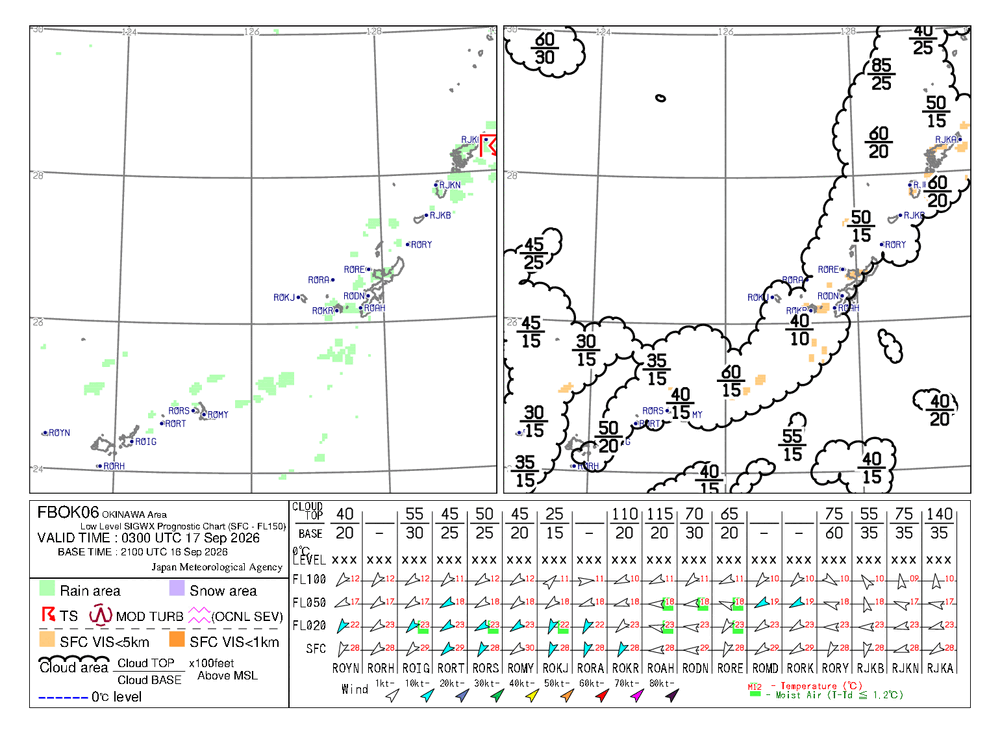
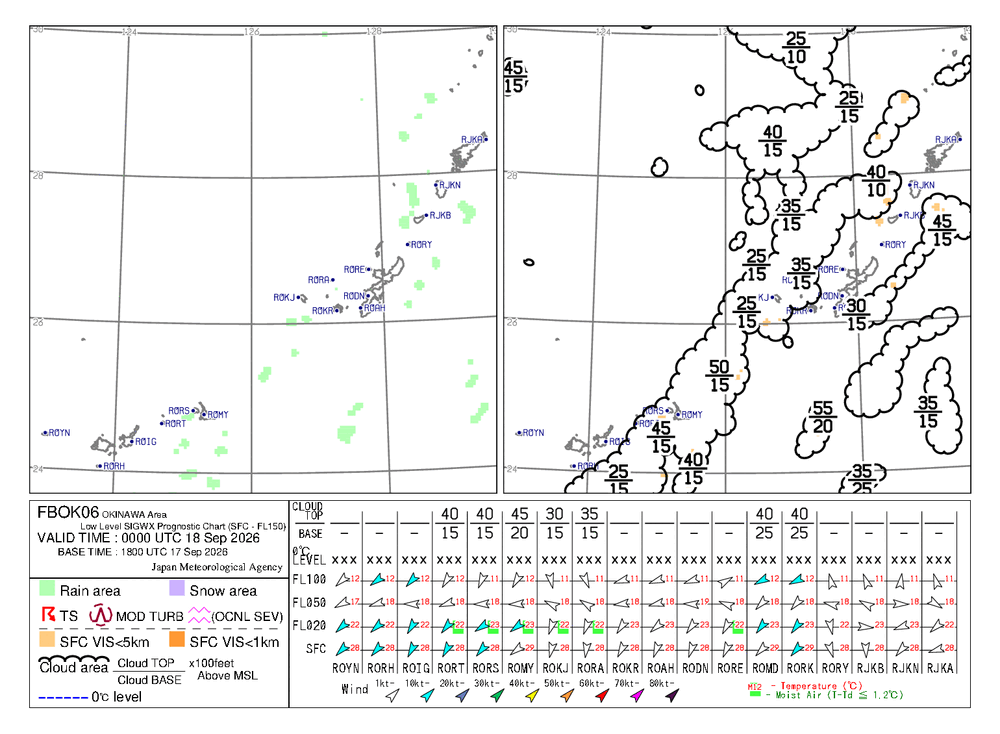
Update VMC map

diff --git a/index.html b/index.html
@@ -3,7 +3,7 @@
 <head>
 <meta charset="utf-8">
 <meta name="viewport" content="width=device-width, initial-scale=1">
-<title>VFR VMC 維持可否マップ (対象時刻: 2026-09-16T21:00 UTC)</title>
+<title>VFR VMC 維持可否マップ (対象時刻: 2026-09-17T21:00 UTC)</title>
 <style>
   :root {
     --bg: #eef1f5; --surface: #ffffff; --text: #1b2530; --text-muted: #5b6b7d;
@@ -109,8 +109,8 @@
     <h1>VFR VMC 維持可否マップ</h1>
     <p class="subtitle">日本全国、地形と雲底の隙間からVMC(視認気象状態)を維持できるかを判定した参考マップです。v1簡易判定につき、実運航の判断には正式な気象情報を使用してください。</p>
     <div class="chips">
-      <span class="chip">気象予報 対象時刻 <b>2026-09-16T21:00 UTC</b></span>
-      <span class="chip">下層悪天予想図 有効時刻 <b>0000 UTC 17 Sep 2026</b></span>
+      <span class="chip">気象予報 対象時刻 <b>2026-09-17T21:00 UTC</b></span>
+      <span class="chip">下層悪天予想図 有効時刻 <b>2100 UTC 17 Sep 2026</b></span>
     </div>
     <div class="refresh-row">
       <button type="button" id="refreshBtn" class="refresh-btn">今すぐ最新データを取得</button>
@@ -124,7 +124,7 @@
     <span class="item"><span class="swatch" style="background:#c62828"></span>VMC維持不可</span>
   </div>
 
-  <div class="layer-tabs"><button type="button" class="layer-tab active" data-layer="0">VMCマップ</button><button type="button" class="layer-tab" data-layer="1">標高マップ</button><button type="button" class="layer-tab" data-layer="2">色別標高図(地理院地図)</button><button type="button" class="layer-tab" data-layer="3">下層悪天 FT03(標高図)</button><button type="button" class="layer-tab" data-layer="4">下層悪天 FT06(標高図)</button></div>
+  <div class="layer-tabs"><button type="button" class="layer-tab active" data-layer="0">VMCマップ</button><button type="button" class="layer-tab" data-layer="1">標高マップ</button><button type="button" class="layer-tab" data-layer="2">色別標高図(地理院地図)</button><button type="button" class="layer-tab" data-layer="3">下層悪天 FT03(標高図)</button><button type="button" class="layer-tab" data-layer="4">下層悪天 FT06(標高図)</button><button type="button" class="layer-tab" data-layer="5">下層悪天 FT09(標高図)</button></div>
   <p id="layerCaption" class="hint"></p>
 
   <div class="map-card">
@@ -152,7 +152,7 @@
   var livecamPoints = [[24.3, 123.8, "https://weathernews.jp/onebox/livecam/okinawa/"], [26.1, 127.7, "https://weathernews.jp/onebox/livecam/okinawa/"], [30.6, 131.0, "https://weathernews.jp/onebox/livecam/kyushu/kagoshima/"], [31.2, 131.0, "https://weathernews.jp/onebox/livecam/kyushu/kagoshima/"], [31.5, 130.4, "https://weathernews.jp/onebox/livecam/kyushu/kagoshima/"], [31.5, 130.7, "https://weathernews.jp/onebox/livecam/kyushu/kagoshima/"], [31.5, 131.0, "https://weathernews.jp/onebox/livecam/kyushu/kagoshima/"], [31.5, 131.3, "https://weathernews.jp/onebox/livecam/kyushu/miyazaki/"], [31.8, 130.4, "https://weathernews.jp/onebox/livecam/kyushu/kagoshima/"], [31.8, 130.7, "https://weathernews.jp/onebox/livecam/kyushu/kagoshima/"], [31.8, 131.0, "https://weathernews.jp/onebox/livecam/kyushu/miyazaki/"], [31.8, 131.3, "https://weathernews.jp/onebox/livecam/kyushu/miyazaki/"], [32.1, 130.4, "https://weathernews.jp/onebox/livecam/kyushu/kagoshima/"], [32.1, 130.7, "https://weathernews.jp/onebox/livecam/kyushu/kumamoto/"], [32.1, 131.0, "https://weathernews.jp/onebox/livecam/kyushu/miyazaki/"], [32.1, 131.3, "https://weathernews.jp/onebox/livecam/kyushu/miyazaki/"], [32.4, 130.1, "https://weathernews.jp/onebox/livecam/kyushu/kumamoto/"], [32.4, 130.7, "https://weathernews.jp/onebox/livecam/kyushu/kumamoto/"], [32.4, 131.0, "https://weathernews.jp/onebox/livecam/kyushu/kumamoto/"], [32.4, 131.3, "https://weathernews.jp/onebox/livecam/kyushu/miyazaki/"], [32.4, 131.6, "https://weathernews.jp/onebox/livecam/kyushu/miyazaki/"], [32.7, 130.7, "https://weathernews.jp/onebox/livecam/kyushu/kumamoto/"], [32.7, 131.0, "https://weathernews.jp/onebox/livecam/kyushu/kumamoto/"], [32.7, 131.3, "https://weathernews.jp/onebox/livecam/kyushu/miyazaki/"], [32.7, 131.6, "https://weathernews.jp/onebox/livecam/kyushu/miyazaki/"], [33.0, 129.8, "https://weathernews.jp/onebox/livecam/kyushu/nagasaki/"], [33.0, 130.1, "https://weathernews.jp/onebox/livecam/kyushu/saga/"], [33.0, 130.7, "https://weathernews.jp/onebox/livecam/kyushu/kumamoto/"], [33.0, 131.0, "https://weathernews.jp/onebox/livecam/kyushu/kumamoto/"], [33.0, 131.3, "https://weathernews.jp/onebox/livecam/kyushu/oita/"], [33.0, 131.6, "https://weathernews.jp/onebox/livecam/kyushu/oita/"], [33.0, 131.9, "https://weathernews.jp/onebox/livecam/kyushu/oita/"], [33.0, 132.8, "https://weathernews.jp/onebox/livecam/shikoku/kouchi/"], [33.3, 129.5, "https://weathernews.jp/onebox/livecam/kyushu/nagasaki/"], [33.3, 129.8, "https://weathernews.jp/onebox/livecam/kyushu/saga/"], [33.3, 130.1, "https://weathernews.jp/onebox/livecam/kyushu/saga/"], [33.3, 130.4, "https://weathernews.jp/onebox/livecam/kyushu/saga/"], [33.3, 130.7, "https://weathernews.jp/onebox/livecam/kyushu/fukuoka/"], [33.3, 131.0, "https://weathernews.jp/onebox/livecam/kyushu/oita/"], [33.3, 131.3, "https://weathernews.jp/onebox/livecam/kyushu/oita/"], [33.3, 132.5, "https://weathernews.jp/onebox/livecam/shikoku/ehime/"], [33.3, 132.8, "https://weathernews.jp/onebox/livecam/shikoku/ehime/"], [33.3, 133.1, "https://weathernews.jp/onebox/livecam/shikoku/kouchi/"], [33.6, 130.4, "https://weathernews.jp/onebox/livecam/kyushu/fukuoka/"], [33.6, 130.7, "https://weathernews.jp/onebox/livecam/kyushu/fukuoka/"], [33.6, 131.0, "https://weathernews.jp/onebox/livecam/kyushu/fukuoka/"], [33.6, 131.6, "https://weathernews.jp/onebox/livecam/kyushu/oita/"], [33.6, 132.5, "https://weathernews.jp/onebox/livecam/shikoku/ehime/"], [33.6, 132.8, "https://weathernews.jp/onebox/livecam/shikoku/ehime/"], [33.6, 133.1, "https://weathernews.jp/onebox/livecam/shikoku/kouchi/"], [33.6, 133.4, "https://weathernews.jp/onebox/livecam/shikoku/kouchi/"], [33.6, 133.7, "https://weathernews.jp/onebox/livecam/shikoku/kouchi/"], [33.6, 134.0, "https://weathernews.jp/onebox/livecam/shikoku/kouchi/"], [33.6, 134.3, "https://weathernews.jp/onebox/livecam/shikoku/tokushima/"], [33.6, 135.5, "https://weathernews.jp/onebox/livecam/kinki/wakayama/"], [33.6, 135.8, "https://weathernews.jp/onebox/livecam/kinki/wakayama/"], [33.9, 130.7, "https://weathernews.jp/onebox/livecam/kyushu/fukuoka/"], [33.9, 132.2, "https://weathernews.jp/onebox/livecam/chugoku/yamaguchi/"], [33.9, 132.8, "https://weathernews.jp/onebox/livecam/shikoku/ehime/"], [33.9, 133.1, "https://weathernews.jp/onebox/livecam/shikoku/ehime/"], [33.9, 133.4, "https://weathernews.jp/onebox/livecam/shikoku/ehime/"], [33.9, 133.7, "https://weathernews.jp/onebox/livecam/shikoku/tokushima/"], [33.9, 134.0, "https://weathernews.jp/onebox/livecam/shikoku/tokushima/"], [33.9, 134.3, "https://weathernews.jp/onebox/livecam/shikoku/tokushima/"], [33.9, 134.6, "https://weathernews.jp/onebox/livecam/shikoku/tokushima/"], [33.9, 135.2, "https://weathernews.jp/onebox/livecam/kinki/wakayama/"], [33.9, 135.5, "https://weathernews.jp/onebox/livecam/kinki/wakayama/"], [33.9, 135.8, "https://weathernews.jp/onebox/livecam/kinki/nara/"], [33.9, 136.1, "https://weathernews.jp/onebox/livecam/kinki/mie/"], [34.2, 129.2, "https://weathernews.jp/onebox/livecam/kyushu/nagasaki/"], [34.2, 131.0, "https://weathernews.jp/onebox/livecam/chugoku/yamaguchi/"], [34.2, 131.3, "https://weathernews.jp/onebox/livecam/chugoku/yamaguchi/"], [34.2, 131.6, "https://weathernews.jp/onebox/livecam/chugoku/yamaguchi/"], [34.2, 131.9, "https://weathernews.jp/onebox/livecam/chugoku/yamaguchi/"], [34.2, 132.2, "https://weathernews.jp/onebox/livecam/chugoku/yamaguchi/"], [34.2, 133.7, "https://weathernews.jp/onebox/livecam/shikoku/kagawa/"], [34.2, 134.0, "https://weathernews.jp/onebox/livecam/shikoku/kagawa/"], [34.2, 134.3, "https://weathernews.jp/onebox/livecam/shikoku/kagawa/"], [34.2, 134.6, "https://weathernews.jp/onebox/livecam/shikoku/tokushima/"], [34.2, 135.2, "https://weathernews.jp/onebox/livecam/kinki/wakayama/"], [34.2, 135.5, "https://weathernews.jp/onebox/livecam/kinki/wakayama/"], [34.2, 135.8, "https://weathernews.jp/onebox/livecam/kinki/nara/"], [34.2, 136.1, "https://weathernews.jp/onebox/livecam/kinki/nara/"], [34.5, 131.6, "https://weathernews.jp/onebox/livecam/chugoku/yamaguchi/"], [34.5, 131.9, "https://weathernews.jp/onebox/livecam/chugoku/shimane/"], [34.5, 132.2, "https://weathernews.jp/onebox/livecam/chugoku/hiroshima/"], [34.5, 132.5, "https://weathernews.jp/onebox/livecam/chugoku/hiroshima/"], [34.5, 132.8, "https://weathernews.jp/onebox/livecam/chugoku/hiroshima/"], [34.5, 133.1, "https://weathernews.jp/onebox/livecam/chugoku/hiroshima/"], [34.5, 133.4, "https://weathernews.jp/onebox/livecam/chugoku/hiroshima/"], [34.5, 134.3, "https://weathernews.jp/onebox/livecam/shikoku/kagawa/"], [34.5, 134.9, "https://weathernews.jp/onebox/livecam/kinki/hyogo/"], [34.5, 135.5, "https://weathernews.jp/onebox/livecam/kinki/osaka/"], [34.5, 135.8, "https://weathernews.jp/onebox/livecam/kinki/nara/"], [34.5, 136.1, "https://weathernews.jp/onebox/livecam/kinki/nara/"], [34.5, 136.4, "https://weathernews.jp/onebox/livecam/kinki/mie/"], [34.5, 136.7, "https://weathernews.jp/onebox/livecam/kinki/mie/"], [34.8, 132.2, "https://weathernews.jp/onebox/livecam/chugoku/shimane/"], [34.8, 132.5, "https://weathernews.jp/onebox/livecam/chugoku/shimane/"], [34.8, 132.8, "https://weathernews.jp/onebox/livecam/chugoku/hiroshima/"], [34.8, 133.1, "https://weathernews.jp/onebox/livecam/chugoku/hiroshima/"], [34.8, 133.4, "https://weathernews.jp/onebox/livecam/chugoku/okayama/"], [34.8, 133.7, "https://weathernews.jp/onebox/livecam/chugoku/okayama/"], [34.8, 134.0, "https://weathernews.jp/onebox/livecam/chugoku/okayama/"], [34.8, 134.3, "https://weathernews.jp/onebox/livecam/kinki/hyogo/"], [34.8, 134.6, "https://weathernews.jp/onebox/livecam/kinki/hyogo/"], [34.8, 134.9, "https://weathernews.jp/onebox/livecam/kinki/hyogo/"], [34.8, 135.2, "https://weathernews.jp/onebox/livecam/kinki/hyogo/"], [34.8, 135.5, "https://weathernews.jp/onebox/livecam/kinki/osaka/"], [34.8, 135.8, "https://weathernews.jp/onebox/livecam/kinki/kyoto/"], [34.8, 136.1, "https://weathernews.jp/onebox/livecam/kinki/mie/"], [34.8, 136.4, "https://weathernews.jp/onebox/livecam/kinki/mie/"], [34.8, 137.3, "https://weathernews.jp/onebox/livecam/chubu/aichi/"], [34.8, 137.6, "https://weathernews.jp/onebox/livecam/chubu/shizuoka/"], [34.8, 137.9, "https://weathernews.jp/onebox/livecam/chubu/shizuoka/"], [34.8, 138.2, "https://weathernews.jp/onebox/livecam/chubu/shizuoka/"], [34.8, 138.8, "https://weathernews.jp/onebox/livecam/chubu/shizuoka/"], [35.1, 132.5, "https://weathernews.jp/onebox/livecam/chugoku/shimane/"], [35.1, 132.8, "https://weathernews.jp/onebox/livecam/chugoku/shimane/"], [35.1, 133.1, "https://weathernews.jp/onebox/livecam/chugoku/shimane/"], [35.1, 133.4, "https://weathernews.jp/onebox/livecam/chugoku/okayama/"], [35.1, 133.7, "https://weathernews.jp/onebox/livecam/chugoku/okayama/"], [35.1, 134.0, "https://weathernews.jp/onebox/livecam/chugoku/okayama/"], [35.1, 134.3, "https://weathernews.jp/onebox/livecam/chugoku/okayama/"], [35.1, 134.6, "https://weathernews.jp/onebox/livecam/kinki/hyogo/"], [35.1, 134.9, "https://weathernews.jp/onebox/livecam/kinki/hyogo/"], [35.1, 135.2, "https://weathernews.jp/onebox/livecam/kinki/hyogo/"], [35.1, 135.5, "https://weathernews.jp/onebox/livecam/kinki/kyoto/"], [35.1, 135.8, "https://weathernews.jp/onebox/livecam/kinki/kyoto/"], [35.1, 136.1, "https://weathernews.jp/onebox/livecam/kinki/shiga/"], [35.1, 136.4, "https://weathernews.jp/onebox/livecam/kinki/shiga/"], [35.1, 136.7, "https://weathernews.jp/onebox/livecam/kinki/mie/"], [35.1, 137.0, "https://weathernews.jp/onebox/livecam/chubu/aichi/"], [35.1, 137.3, "https://weathernews.jp/onebox/livecam/chubu/aichi/"], [35.1, 137.6, "https://weathernews.jp/onebox/livecam/chubu/aichi/"], [35.1, 137.9, "https://weathernews.jp/onebox/livecam/chubu/shizuoka/"], [35.1, 138.2, "https://weathernews.jp/onebox/livecam/chubu/shizuoka/"], [35.1, 138.5, "https://weathernews.jp/onebox/livecam/chubu/shizuoka/"], [35.1, 140.0, "https://weathernews.jp/onebox/livecam/kanto/chiba/"], [35.4, 132.8, "https://weathernews.jp/onebox/livecam/chugoku/shimane/"], [35.4, 133.1, "https://weathernews.jp/onebox/livecam/chugoku/shimane/"], [35.4, 133.4, "https://weathernews.jp/onebox/livecam/chugoku/tottori/"], [35.4, 133.7, "https://weathernews.jp/onebox/livecam/chugoku/tottori/"], [35.4, 134.0, "https://weathernews.jp/onebox/livecam/chugoku/tottori/"], [35.4, 134.3, "https://weathernews.jp/onebox/livecam/chugoku/tottori/"], [35.4, 134.6, "https://weathernews.jp/onebox/livecam/kinki/hyogo/"], [35.4, 134.9, "https://weathernews.jp/onebox/livecam/kinki/hyogo/"], [35.4, 135.2, "https://weathernews.jp/onebox/livecam/kinki/kyoto/"], [35.4, 135.5, "https://weathernews.jp/onebox/livecam/chubu/fukui/"], [35.4, 135.8, "https://weathernews.jp/onebox/livecam/chubu/fukui/"], [35.4, 136.1, "https://weathernews.jp/onebox/livecam/kinki/shiga/"], [35.4, 136.4, "https://weathernews.jp/onebox/livecam/kinki/shiga/"], [35.4, 136.7, "https://weathernews.jp/onebox/livecam/chubu/gifu/"], [35.4, 137.0, "https://weathernews.jp/onebox/livecam/chubu/gifu/"], [35.4, 137.3, "https://weathernews.jp/onebox/livecam/chubu/gifu/"], [35.4, 137.6, "https://weathernews.jp/onebox/livecam/chubu/gifu/"], [35.4, 137.9, "https://weathernews.jp/onebox/livecam/chubu/nagano/"], [35.4, 138.2, "https://weathernews.jp/onebox/livecam/chubu/shizuoka/"], [35.4, 138.5, "https://weathernews.jp/onebox/livecam/chubu/yamanashi/"], [35.4, 138.8, "https://weathernews.jp/onebox/livecam/chubu/yamanashi/"], [35.4, 139.1, "https://weathernews.jp/onebox/livecam/kanto/kanagawa/"], [35.4, 139.4, "https://weathernews.jp/onebox/livecam/kanto/kanagawa/"], [35.4, 140.0, "https://weathernews.jp/onebox/livecam/kanto/chiba/"], [35.4, 140.3, "https://weathernews.jp/onebox/livecam/kanto/chiba/"], [35.7, 135.2, "https://weathernews.jp/onebox/livecam/kinki/kyoto/"], [35.7, 136.1, "https://weathernews.jp/onebox/livecam/chubu/fukui/"], [35.7, 136.4, "https://weathernews.jp/onebox/livecam/chubu/gifu/"], [35.7, 136.7, "https://weathernews.jp/onebox/livecam/chubu/gifu/"], [35.7, 137.0, "https://weathernews.jp/onebox/livecam/chubu/gifu/"], [35.7, 137.3, "https://weathernews.jp/onebox/livecam/chubu/gifu/"], [35.7, 137.6, "https://weathernews.jp/onebox/livecam/chubu/nagano/"], [35.7, 137.9, "https://weathernews.jp/onebox/livecam/chubu/nagano/"], [35.7, 138.2, "https://weathernews.jp/onebox/livecam/chubu/yamanashi/"], [35.7, 138.5, "https://weathernews.jp/onebox/livecam/chubu/yamanashi/"], [35.7, 138.8, "https://weathernews.jp/onebox/livecam/chubu/yamanashi/"], [35.7, 139.1, "https://weathernews.jp/onebox/livecam/kanto/tokyo/"], [35.7, 139.4, "https://weathernews.jp/onebox/livecam/kanto/tokyo/"], [35.7, 139.7, "https://weathernews.jp/onebox/livecam/kanto/tokyo/"], [35.7, 140.0, "https://weathernews.jp/onebox/livecam/kanto/chiba/"], [35.7, 140.3, "https://weathernews.jp/onebox/livecam/kanto/chiba/"], [35.7, 140.6, "https://weathernews.jp/onebox/livecam/kanto/chiba/"], [36.0, 136.1, "https://weathernews.jp/onebox/livecam/chubu/fukui/"], [36.0, 136.4, "https://weathernews.jp/onebox/livecam/chubu/fukui/"], [36.0, 136.7, "https://weathernews.jp/onebox/livecam/chubu/fukui/"], [36.0, 137.0, "https://weathernews.jp/onebox/livecam/chubu/gifu/"], [36.0, 137.3, "https://weathernews.jp/onebox/livecam/chubu/gifu/"], [36.0, 137.6, "https://weathernews.jp/onebox/livecam/chubu/nagano/"], [36.0, 137.9, "https://weathernews.jp/onebox/livecam/chubu/nagano/"], [36.0, 138.2, "https://weathernews.jp/onebox/livecam/chubu/nagano/"], [36.0, 138.5, "https://weathernews.jp/onebox/livecam/chubu/nagano/"], [36.0, 138.8, "https://weathernews.jp/onebox/livecam/kanto/saitama/"], [36.0, 139.1, "https://weathernews.jp/onebox/livecam/kanto/saitama/"], [36.0, 139.4, "https://weathernews.jp/onebox/livecam/kanto/saitama/"], [36.0, 139.7, "https://weathernews.jp/onebox/livecam/kanto/saitama/"], [36.0, 140.0, "https://weathernews.jp/onebox/livecam/kanto/ibaraki/"], [36.0, 140.3, "https://weathernews.jp/onebox/livecam/kanto/ibaraki/"], [36.0, 140.6, "https://weathernews.jp/onebox/livecam/kanto/ibaraki/"], [36.3, 136.4, "https://weathernews.jp/onebox/livecam/chubu/ishikawa/"], [36.3, 136.7, "https://weathernews.jp/onebox/livecam/chubu/ishikawa/"], [36.3, 137.0, "https://weathernews.jp/onebox/livecam/chubu/gifu/"], [36.3, 137.3, "https://weathernews.jp/onebox/livecam/chubu/gifu/"], [36.3, 137.6, "https://weathernews.jp/onebox/livecam/chubu/gifu/"], [36.3, 137.9, "https://weathernews.jp/onebox/livecam/chubu/nagano/"], [36.3, 138.2, "https://weathernews.jp/onebox/livecam/chubu/nagano/"], [36.3, 138.5, "https://weathernews.jp/onebox/livecam/chubu/nagano/"], [36.3, 138.8, "https://weathernews.jp/onebox/livecam/kanto/gunma/"], [36.3, 139.1, "https://weathernews.jp/onebox/livecam/kanto/gunma/"], [36.3, 139.4, "https://weathernews.jp/onebox/livecam/kanto/gunma/"], [36.3, 139.7, "https://weathernews.jp/onebox/livecam/kanto/tochigi/"], [36.3, 140.0, "https://weathernews.jp/onebox/livecam/kanto/ibaraki/"], [36.3, 140.3, "https://weathernews.jp/onebox/livecam/kanto/ibaraki/"], [36.6, 136.7, "https://weathernews.jp/onebox/livecam/chubu/ishikawa/"], [36.6, 137.0, "https://weathernews.jp/onebox/livecam/chubu/toyama/"], [36.6, 137.3, "https://weathernews.jp/onebox/livecam/chubu/toyama/"], [36.6, 137.6, "https://weathernews.jp/onebox/livecam/chubu/toyama/"], [36.6, 137.9, "https://weathernews.jp/onebox/livecam/chubu/nagano/"], [36.6, 138.2, "https://weathernews.jp/onebox/livecam/chubu/nagano/"], [36.6, 138.5, "https://weathernews.jp/onebox/livecam/kanto/gunma/"], [36.6, 138.8, "https://weathernews.jp/onebox/livecam/kanto/gunma/"], [36.6, 139.1, "https://weathernews.jp/onebox/livecam/kanto/gunma/"], [36.6, 139.4, "https://weathernews.jp/onebox/livecam/kanto/gunma/"], [36.6, 139.7, "https://weathernews.jp/onebox/livecam/kanto/tochigi/"], [36.6, 140.0, "https://weathernews.jp/onebox/livecam/kanto/tochigi/"], [36.6, 140.3, "https://weathernews.jp/onebox/livecam/kanto/ibaraki/"], [36.6, 140.6, "https://weathernews.jp/onebox/livecam/kanto/ibaraki/"], [36.9, 137.0, "https://weathernews.jp/onebox/livecam/chubu/toyama/"], [36.9, 137.6, "https://weathernews.jp/onebox/livecam/chubu/toyama/"], [36.9, 137.9, "https://weathernews.jp/onebox/livecam/chubu/nagano/"], [36.9, 138.2, "https://weathernews.jp/onebox/livecam/chubu/niigata/"], [36.9, 138.5, "https://weathernews.jp/onebox/livecam/chubu/nagano/"], [36.9, 138.8, "https://weathernews.jp/onebox/livecam/chubu/niigata/"], [36.9, 139.1, "https://weathernews.jp/onebox/livecam/kanto/gunma/"], [36.9, 139.4, "https://weathernews.jp/onebox/livecam/kanto/tochigi/"], [36.9, 139.7, "https://weathernews.jp/onebox/livecam/kanto/tochigi/"], [36.9, 140.0, "https://weathernews.jp/onebox/livecam/kanto/tochigi/"], [36.9, 140.3, "https://weathernews.jp/onebox/livecam/tohoku/fukushima/"], [36.9, 140.6, "https://weathernews.jp/onebox/livecam/kanto/ibaraki/"], [37.2, 136.7, "https://weathernews.jp/onebox/livecam/chubu/ishikawa/"], [37.2, 137.0, "https://weathernews.jp/onebox/livecam/chubu/ishikawa/"], [37.2, 138.5, "https://weathernews.jp/onebox/livecam/chubu/niigata/"], [37.2, 138.8, "https://weathernews.jp/onebox/livecam/chubu/niigata/"], [37.2, 139.1, "https://weathernews.jp/onebox/livecam/chubu/niigata/"], [37.2, 139.4, "https://weathernews.jp/onebox/livecam/tohoku/fukushima/"], [37.2, 139.7, "https://weathernews.jp/onebox/livecam/tohoku/fukushima/"], [37.2, 140.0, "https://weathernews.jp/onebox/livecam/tohoku/fukushima/"], [37.2, 140.3, "https://weathernews.jp/onebox/livecam/tohoku/fukushima/"], [37.2, 140.6, "https://weathernews.jp/onebox/livecam/tohoku/fukushima/"], [37.2, 140.9, "https://weathernews.jp/onebox/livecam/tohoku/fukushima/"], [37.5, 137.3, "https://weathernews.jp/onebox/livecam/chubu/ishikawa/"], [37.5, 138.8, "https://weathernews.jp/onebox/livecam/chubu/niigata/"], [37.5, 139.1, "https://weathernews.jp/onebox/livecam/chubu/niigata/"], [37.5, 139.4, "https://weathernews.jp/onebox/livecam/chubu/niigata/"], [37.5, 139.7, "https://weathernews.jp/onebox/livecam/tohoku/fukushima/"], [37.5, 140.0, "https://weathernews.jp/onebox/livecam/tohoku/fukushima/"], [37.5, 140.3, "https://weathernews.jp/onebox/livecam/tohoku/fukushima/"], [37.5, 140.6, "https://weathernews.jp/onebox/livecam/tohoku/fukushima/"], [37.5, 140.9, "https://weathernews.jp/onebox/livecam/tohoku/fukushima/"], [37.8, 139.1, "https://weathernews.jp/onebox/livecam/chubu/niigata/"], [37.8, 139.4, "https://weathernews.jp/onebox/livecam/chubu/niigata/"], [37.8, 139.7, "https://weathernews.jp/onebox/livecam/chubu/niigata/"], [37.8, 140.0, "https://weathernews.jp/onebox/livecam/tohoku/yamagata/"], [37.8, 140.3, "https://weathernews.jp/onebox/livecam/tohoku/fukushima/"], [37.8, 140.6, "https://weathernews.jp/onebox/livecam/tohoku/fukushima/"], [37.8, 140.9, "https://weathernews.jp/onebox/livecam/tohoku/fukushima/"], [38.1, 139.4, "https://weathernews.jp/onebox/livecam/chubu/niigata/"], [38.1, 139.7, "https://weathernews.jp/onebox/livecam/tohoku/yamagata/"], [38.1, 140.0, "https://weathernews.jp/onebox/livecam/tohoku/yamagata/"], [38.1, 140.3, "https://weathernews.jp/onebox/livecam/tohoku/yamagata/"], [38.1, 140.6, "https://weathernews.jp/onebox/livecam/tohoku/miyagi/"], [38.1, 140.9, "https://weathernews.jp/onebox/livecam/tohoku/miyagi/"], [38.4, 139.7, "https://weathernews.jp/onebox/livecam/chubu/niigata/"], [38.4, 140.0, "https://weathernews.jp/onebox/livecam/tohoku/yamagata/"], [38.4, 140.3, "https://weathernews.jp/onebox/livecam/tohoku/yamagata/"], [38.4, 140.6, "https://weathernews.jp/onebox/livecam/tohoku/miyagi/"], [38.4, 140.9, "https://weathernews.jp/onebox/livecam/tohoku/miyagi/"], [38.4, 141.2, "https://weathernews.jp/onebox/livecam/tohoku/miyagi/"], [38.7, 139.7, "https://weathernews.jp/onebox/livecam/tohoku/yamagata/"], [38.7, 140.0, "https://weathernews.jp/onebox/livecam/tohoku/yamagata/"], [38.7, 140.3, "https://weathernews.jp/onebox/livecam/tohoku/yamagata/"], [38.7, 140.6, "https://weathernews.jp/onebox/livecam/tohoku/yamagata/"], [38.7, 140.9, "https://weathernews.jp/onebox/livecam/tohoku/miyagi/"], [38.7, 141.2, "https://weathernews.jp/onebox/livecam/tohoku/miyagi/"], [38.7, 141.5, "https://weathernews.jp/onebox/livecam/tohoku/miyagi/"], [39.0, 140.0, "https://weathernews.jp/onebox/livecam/tohoku/yamagata/"], [39.0, 140.3, "https://weathernews.jp/onebox/livecam/tohoku/yamagata/"], [39.0, 140.6, "https://weathernews.jp/onebox/livecam/tohoku/akita/"], [39.0, 140.9, "https://weathernews.jp/onebox/livecam/tohoku/iwate/"], [39.0, 141.2, "https://weathernews.jp/onebox/livecam/tohoku/iwate/"], [39.0, 141.5, "https://weathernews.jp/onebox/livecam/tohoku/iwate/"], [39.3, 140.0, "https://weathernews.jp/onebox/livecam/tohoku/akita/"], [39.3, 140.3, "https://weathernews.jp/onebox/livecam/tohoku/akita/"], [39.3, 140.6, "https://weathernews.jp/onebox/livecam/tohoku/akita/"], [39.3, 140.9, "https://weathernews.jp/onebox/livecam/tohoku/iwate/"], [39.3, 141.2, "https://weathernews.jp/onebox/livecam/tohoku/iwate/"], [39.3, 141.5, "https://weathernews.jp/onebox/livecam/tohoku/iwate/"], [39.3, 141.8, "https://weathernews.jp/onebox/livecam/tohoku/iwate/"], [39.6, 140.3, "https://weathernews.jp/onebox/livecam/tohoku/akita/"], [39.6, 140.6, "https://weathernews.jp/onebox/livecam/tohoku/akita/"], [39.6, 140.9, "https://weathernews.jp/onebox/livecam/tohoku/iwate/"], [39.6, 141.2, "https://weathernews.jp/onebox/livecam/tohoku/iwate/"], [39.6, 141.5, "https://weathernews.jp/onebox/livecam/tohoku/iwate/"], [39.6, 141.8, "https://weathernews.jp/onebox/livecam/tohoku/iwate/"], [39.9, 140.0, "https://weathernews.jp/onebox/livecam/tohoku/akita/"], [39.9, 140.3, "https://weathernews.jp/onebox/livecam/tohoku/akita/"], [39.9, 140.6, "https://weathernews.jp/onebox/livecam/tohoku/akita/"], [39.9, 140.9, "https://weathernews.jp/onebox/livecam/tohoku/iwate/"], [39.9, 141.2, "https://weathernews.jp/onebox/livecam/tohoku/iwate/"], [39.9, 141.5, "https://weathernews.jp/onebox/livecam/tohoku/iwate/"], [39.9, 141.8, "https://weathernews.jp/onebox/livecam/tohoku/iwate/"], [40.2, 140.0, "https://weathernews.jp/onebox/livecam/tohoku/akita/"], [40.2, 140.3, "https://weathernews.jp/onebox/livecam/tohoku/akita/"], [40.2, 140.6, "https://weathernews.jp/onebox/livecam/tohoku/akita/"], [40.2, 140.9, "https://weathernews.jp/onebox/livecam/tohoku/iwate/"], [40.2, 141.2, "https://weathernews.jp/onebox/livecam/tohoku/iwate/"], [40.2, 141.5, "https://weathernews.jp/onebox/livecam/tohoku/iwate/"], [40.2, 141.8, "https://weathernews.jp/onebox/livecam/tohoku/iwate/"], [40.5, 140.0, "https://weathernews.jp/onebox/livecam/tohoku/aomori/"], [40.5, 140.3, "https://weathernews.jp/onebox/livecam/tohoku/aomori/"], [40.5, 140.6, "https://weathernews.jp/onebox/livecam/tohoku/aomori/"], [40.5, 140.9, "https://weathernews.jp/onebox/livecam/tohoku/aomori/"], [40.5, 141.2, "https://weathernews.jp/onebox/livecam/tohoku/aomori/"], [40.5, 141.5, "https://weathernews.jp/onebox/livecam/tohoku/aomori/"], [40.8, 140.3, "https://weathernews.jp/onebox/livecam/tohoku/aomori/"], [40.8, 140.6, "https://weathernews.jp/onebox/livecam/tohoku/aomori/"], [40.8, 140.9, "https://weathernews.jp/onebox/livecam/tohoku/aomori/"], [40.8, 141.2, "https://weathernews.jp/onebox/livecam/tohoku/aomori/"], [41.1, 140.6, "https://weathernews.jp/onebox/livecam/tohoku/aomori/"], [41.4, 140.9, "https://weathernews.jp/onebox/livecam/tohoku/aomori/"], [41.7, 140.3, "https://weathernews.jp/onebox/livecam/hokkaido/dounan/"], [42.0, 140.3, "https://weathernews.jp/onebox/livecam/hokkaido/dounan/"], [42.0, 140.6, "https://weathernews.jp/onebox/livecam/hokkaido/dounan/"], [42.3, 140.0, "https://weathernews.jp/onebox/livecam/hokkaido/dounan/"], [42.3, 142.7, "https://weathernews.jp/onebox/livecam/hokkaido/douou/"], [42.3, 143.0, "https://weathernews.jp/onebox/livecam/hokkaido/douou/"], [42.3, 143.3, "https://weathernews.jp/onebox/livecam/hokkaido/doutou/"], [42.6, 140.0, "https://weathernews.jp/onebox/livecam/hokkaido/douou/"], [42.6, 140.3, "https://weathernews.jp/onebox/livecam/hokkaido/douou/"], [42.6, 140.6, "https://weathernews.jp/onebox/livecam/hokkaido/douou/"], [42.6, 140.9, "https://weathernews.jp/onebox/livecam/hokkaido/douou/"], [42.6, 141.2, "https://weathernews.jp/onebox/livecam/hokkaido/douou/"], [42.6, 142.1, "https://weathernews.jp/onebox/livecam/hokkaido/douou/"], [42.6, 142.4, "https://weathernews.jp/onebox/livecam/hokkaido/douou/"], [42.6, 142.7, "https://weathernews.jp/onebox/livecam/hokkaido/douou/"], [42.6, 143.0, "https://weathernews.jp/onebox/livecam/hokkaido/douou/"], [42.6, 143.3, "https://weathernews.jp/onebox/livecam/hokkaido/doutou/"], [42.9, 140.6, "https://weathernews.jp/onebox/livecam/hokkaido/douou/"], [42.9, 140.9, "https://weathernews.jp/onebox/livecam/hokkaido/douou/"], [42.9, 141.2, "https://weathernews.jp/onebox/livecam/hokkaido/douou/"], [42.9, 141.5, "https://weathernews.jp/onebox/livecam/hokkaido/douou/"], [42.9, 141.8, "https://weathernews.jp/onebox/livecam/hokkaido/douou/"], [42.9, 142.1, "https://weathernews.jp/onebox/livecam/hokkaido/douou/"], [42.9, 142.4, "https://weathernews.jp/onebox/livecam/hokkaido/douou/"], [42.9, 142.7, "https://weathernews.jp/onebox/livecam/hokkaido/douou/"], [42.9, 143.0, "https://weathernews.jp/onebox/livecam/hokkaido/douou/"], [42.9, 143.3, "https://weathernews.jp/onebox/livecam/hokkaido/doutou/"], [42.9, 143.6, "https://weathernews.jp/onebox/livecam/hokkaido/doutou/"], [42.9, 143.9, "https://weathernews.jp/onebox/livecam/hokkaido/doutou/"], [43.2, 140.6, "https://weathernews.jp/onebox/livecam/hokkaido/douou/"], [43.2, 140.9, "https://weathernews.jp/onebox/livecam/hokkaido/douou/"], [43.2, 141.5, "https://weathernews.jp/onebox/livecam/hokkaido/douou/"], [43.2, 141.8, "https://weathernews.jp/onebox/livecam/hokkaido/douou/"], [43.2, 142.1, "https://weathernews.jp/onebox/livecam/hokkaido/douou/"], [43.2, 142.4, "https://weathernews.jp/onebox/livecam/hokkaido/douou/"], [43.2, 142.7, "https://weathernews.jp/onebox/livecam/hokkaido/douou/"], [43.2, 143.0, "https://weathernews.jp/onebox/livecam/hokkaido/douou/"], [43.2, 143.3, "https://weathernews.jp/onebox/livecam/hokkaido/doutou/"], [43.2, 143.6, "https://weathernews.jp/onebox/livecam/hokkaido/doutou/"], [43.2, 143.9, "https://weathernews.jp/onebox/livecam/hokkaido/doutou/"], [43.2, 144.2, "https://weathernews.jp/onebox/livecam/hokkaido/doutou/"], [43.2, 144.5, "https://weathernews.jp/onebox/livecam/hokkaido/doutou/"], [43.2, 144.8, "https://weathernews.jp/onebox/livecam/hokkaido/doutou/"], [43.2, 145.1, "https://weathernews.jp/onebox/livecam/hokkaido/doutou/"], [43.2, 145.4, "https://weathernews.jp/onebox/livecam/hokkaido/doutou/"], [43.5, 141.5, "https://weathernews.jp/onebox/livecam/hokkaido/douhoku/"], [43.5, 141.8, "https://weathernews.jp/onebox/livecam/hokkaido/douhoku/"], [43.5, 142.1, "https://weathernews.jp/onebox/livecam/hokkaido/douhoku/"], [43.5, 142.4, "https://weathernews.jp/onebox/livecam/hokkaido/douhoku/"], [43.5, 142.7, "https://weathernews.jp/onebox/livecam/hokkaido/douhoku/"], [43.5, 143.0, "https://weathernews.jp/onebox/livecam/hokkaido/douhoku/"], [43.5, 143.3, "https://weathernews.jp/onebox/livecam/hokkaido/douhoku/"], [43.5, 143.6, "https://weathernews.jp/onebox/livecam/hokkaido/douhoku/"], [43.5, 143.9, "https://weathernews.jp/onebox/livecam/hokkaido/douhoku/"], [43.5, 144.2, "https://weathernews.jp/onebox/livecam/hokkaido/douhoku/"], [43.5, 144.5, "https://weathernews.jp/onebox/livecam/hokkaido/douhoku/"], [43.5, 144.8, "https://weathernews.jp/onebox/livecam/hokkaido/douhoku/"], [43.5, 145.1, "https://weathernews.jp/onebox/livecam/hokkaido/douhoku/"], [43.8, 141.5, "https://weathernews.jp/onebox/livecam/hokkaido/douhoku/"], [43.8, 141.8, "https://weathernews.jp/onebox/livecam/hokkaido/douhoku/"], [43.8, 142.1, "https://weathernews.jp/onebox/livecam/hokkaido/douhoku/"], [43.8, 142.4, "https://weathernews.jp/onebox/livecam/hokkaido/douhoku/"], [43.8, 142.7, "https://weathernews.jp/onebox/livecam/hokkaido/douhoku/"], [43.8, 143.0, "https://weathernews.jp/onebox/livecam/hokkaido/douhoku/"], [43.8, 143.3, "https://weathernews.jp/onebox/livecam/hokkaido/douhoku/"], [43.8, 143.6, "https://weathernews.jp/onebox/livecam/hokkaido/douhoku/"], [43.8, 143.9, "https://weathernews.jp/onebox/livecam/hokkaido/douhoku/"], [43.8, 144.2, "https://weathernews.jp/onebox/livecam/hokkaido/douhoku/"], [43.8, 144.5, "https://weathernews.jp/onebox/livecam/hokkaido/douhoku/"], [43.8, 144.8, "https://weathernews.jp/onebox/livecam/hokkaido/douhoku/"], [44.1, 141.8, "https://weathernews.jp/onebox/livecam/hokkaido/douhoku/"], [44.1, 142.1, "https://weathernews.jp/onebox/livecam/hokkaido/douhoku/"], [44.1, 142.4, "https://weathernews.jp/onebox/livecam/hokkaido/douhoku/"], [44.1, 142.7, "https://weathernews.jp/onebox/livecam/hokkaido/douhoku/"], [44.1, 143.0, "https://weathernews.jp/onebox/livecam/hokkaido/douhoku/"], [44.1, 143.3, "https://weathernews.jp/onebox/livecam/hokkaido/douhoku/"], [44.1, 143.6, "https://weathernews.jp/onebox/livecam/hokkaido/douhoku/"], [44.1, 145.1, "https://weathernews.jp/onebox/livecam/hokkaido/douhoku/"], [44.4, 141.8, "https://weathernews.jp/onebox/livecam/hokkaido/douhoku/"], [44.4, 142.1, "https://weathernews.jp/onebox/livecam/hokkaido/douhoku/"], [44.4, 142.4, "https://weathernews.jp/onebox/livecam/hokkaido/douhoku/"], [44.4, 142.7, "https://weathernews.jp/onebox/livecam/hokkaido/douhoku/"], [44.4, 143.0, "https://weathernews.jp/onebox/livecam/hokkaido/douhoku/"], [44.7, 141.8, "https://weathernews.jp/onebox/livecam/hokkaido/douhoku/"], [44.7, 142.1, "https://weathernews.jp/onebox/livecam/hokkaido/douhoku/"], [44.7, 142.4, "https://weathernews.jp/onebox/livecam/hokkaido/douhoku/"], [44.7, 142.7, "https://weathernews.jp/onebox/livecam/hokkaido/douhoku/"], [45.0, 141.8, "https://weathernews.jp/onebox/livecam/hokkaido/douhoku/"], [45.0, 142.1, "https://weathernews.jp/onebox/livecam/hokkaido/douhoku/"], [45.0, 142.4, "https://weathernews.jp/onebox/livecam/hokkaido/douhoku/"], [45.3, 141.8, "https://weathernews.jp/onebox/livecam/hokkaido/douhoku/"], [45.3, 142.1, "https://weathernews.jp/onebox/livecam/hokkaido/douhoku/"]];
   var elevationPoints = [[24.3, 123.8, 544], [26.1, 127.7, 138], [26.4, 128.0, 46], [28.2, 129.2, 33], [30.6, 131.0, 775], [31.2, 131.0, 476], [31.5, 130.4, 668], [31.5, 130.7, 33], [31.5, 131.0, 380], [31.5, 131.3, 558], [31.8, 130.4, 95], [31.8, 130.7, 781], [31.8, 131.0, 698], [31.8, 131.3, 915], [32.1, 130.4, 703], [32.1, 130.7, 2118], [32.1, 131.0, 1544], [32.1, 131.3, 967], [32.4, 130.1, 1246], [32.4, 130.4, 90], [32.4, 130.7, 1181], [32.4, 131.0, 2045], [32.4, 131.3, 2063], [32.4, 131.6, 102], [32.7, 128.9, 126], [32.7, 130.7, 180], [32.7, 131.0, 1663], [32.7, 131.3, 880], [32.7, 131.6, 1446], [33.0, 129.8, 199], [33.0, 130.1, 2248], [33.0, 130.4, 5], [33.0, 130.7, 69], [33.0, 131.0, 2961], [33.0, 131.3, 1567], [33.0, 131.6, 466], [33.0, 131.9, 22], [33.0, 132.8, 351], [33.3, 129.5, 127], [33.3, 129.8, 823], [33.3, 130.1, 203], [33.3, 130.4, 15], [33.3, 130.7, 1662], [33.3, 131.0, 670], [33.3, 131.3, 2613], [33.3, 132.5, 9], [33.3, 132.8, 1597], [33.3, 133.1, 873], [33.6, 130.4, 5], [33.6, 130.7, 146], [33.6, 131.0, 956], [33.6, 131.6, 1575], [33.6, 132.5, 123], [33.6, 132.8, 1356], [33.6, 133.1, 3450], [33.6, 133.4, 2018], [33.6, 133.7, 96], [33.6, 134.0, 916], [33.6, 134.3, 214], [33.6, 135.5, 746], [33.6, 135.8, 622], [33.9, 130.7, 47], [33.9, 131.0, 2], [33.9, 132.2, 896], [33.9, 132.8, 1036], [33.9, 133.1, 18], [33.9, 133.4, 3482], [33.9, 133.7, 2176], [33.9, 134.0, 3947], [33.9, 134.3, 3500], [33.9, 134.6, 684], [33.9, 135.2, 112], [33.9, 135.5, 1396], [33.9, 135.8, 2248], [33.9, 136.1, 427], [34.2, 129.2, 473], [34.2, 131.0, 784], [34.2, 131.3, 299], [34.2, 131.6, 1166], [34.2, 131.9, 920], [34.2, 132.2, 225], [34.2, 133.1, 34], [34.2, 133.7, 11], [34.2, 134.0, 468], [34.2, 134.3, 258], [34.2, 134.6, 24], [34.2, 135.2, 30], [34.2, 135.5, 1439], [34.2, 135.8, 2570], [34.2, 136.1, 4571], [34.2, 136.4, 3], [34.5, 131.6, 1771], [34.5, 131.9, 1551], [34.5, 132.2, 3150], [34.5, 132.5, 1448], [34.5, 132.8, 1194], [34.5, 133.1, 355], [34.5, 133.4, 21], [34.5, 134.3, 424], [34.5, 134.9, 426], [34.5, 135.5, 216], [34.5, 135.8, 232], [34.5, 136.1, 1819], [34.5, 136.4, 1920], [34.5, 136.7, 14], [34.8, 132.2, 1333], [34.8, 132.5, 2117], [34.8, 132.8, 859], [34.8, 133.1, 1379], [34.8, 133.4, 1789], [34.8, 133.7, 1218], [34.8, 134.0, 199], [34.8, 134.3, 825], [34.8, 134.6, 13], [34.8, 134.9, 49], [34.8, 135.2, 1280], [34.8, 135.5, 221], [34.8, 135.8, 79], [34.8, 136.1, 850], [34.8, 136.4, 878], [34.8, 137.0, 0], [34.8, 137.3, 0], [34.8, 137.6, 479], [34.8, 137.9, 71], [34.8, 138.2, 213], [34.8, 138.8, 735], [35.1, 132.5, 707], [35.1, 132.8, 1970], [35.1, 133.1, 2384], [35.1, 133.4, 2189], [35.1, 133.7, 650], [35.1, 134.0, 420], [35.1, 134.3, 755], [35.1, 134.6, 1309], [35.1, 134.9, 473], [35.1, 135.2, 1150], [35.1, 135.5, 762], [35.1, 135.8, 974], [35.1, 136.1, 314], [35.1, 136.4, 1447], [35.1, 136.7, 0], [35.1, 137.0, 153], [35.1, 137.3, 1261], [35.1, 137.6, 2379], [35.1, 137.9, 3923], [35.1, 138.2, 1956], [35.1, 138.5, 805], [35.1, 140.0, 581], [35.4, 132.8, 26], [35.4, 133.1, 194], [35.4, 133.4, 78], [35.4, 133.7, 769], [35.4, 134.0, 1902], [35.4, 134.3, 1418], [35.4, 134.6, 1547], [35.4, 134.9, 1780], [35.4, 135.2, 178], [35.4, 135.5, 1019], [35.4, 135.8, 1712], [35.4, 136.1, 278], [35.4, 136.4, 2040], [35.4, 136.7, 31], [35.4, 137.0, 358], [35.4, 137.3, 765], [35.4, 137.6, 4234], [35.4, 137.9, 3439], [35.4, 138.2, 5033], [35.4, 138.5, 2067], [35.4, 138.8, 4560], [35.4, 139.1, 2149], [35.4, 139.4, 56], [35.4, 140.0, 38], [35.4, 140.3, 70], [35.7, 135.2, 1450], [35.7, 136.1, 584], [35.7, 136.4, 3028], [35.7, 136.7, 2561], [35.7, 137.0, 1495], [35.7, 137.3, 2348], [35.7, 137.6, 3845], [35.7, 137.9, 2973], [35.7, 138.2, 7694], [35.7, 138.5, 1308], [35.7, 138.8, 4166], [35.7, 139.1, 1800], [35.7, 139.4, 298], [35.7, 139.7, 104], [35.7, 140.0, 52], [35.7, 140.3, 118], [35.7, 140.6, 17], [36.0, 136.1, 214], [36.0, 136.4, 1046], [36.0, 136.7, 3292], [36.0, 137.0, 3298], [36.0, 137.3, 3357], [36.0, 137.6, 4920], [36.0, 137.9, 3858], [36.0, 138.2, 3180], [36.0, 138.5, 4072], [36.0, 138.8, 2912], [36.0, 139.1, 738], [36.0, 139.4, 99], [36.0, 139.7, 34], [36.0, 140.0, 37], [36.0, 140.3, 72], [36.0, 140.6, 68], [36.3, 136.4, 97], [36.3, 136.7, 1683], [36.3, 137.0, 4611], [36.3, 137.3, 2091], [36.3, 137.6, 4886], [36.3, 137.9, 1819], [36.3, 138.2, 2333], [36.3, 138.5, 2446], [36.3, 138.8, 1026], [36.3, 139.1, 238], [36.3, 139.4, 133], [36.3, 139.7, 74], [36.3, 140.0, 99], [36.3, 140.3, 95], [36.6, 136.7, 200], [36.6, 137.0, 449], [36.6, 137.3, 530], [36.6, 137.6, 7324], [36.6, 137.9, 2641], [36.6, 138.2, 1139], [36.6, 138.5, 4805], [36.6, 138.8, 1431], [36.6, 139.1, 2232], [36.6, 139.4, 2255], [36.6, 139.7, 1018], [36.6, 140.0, 457], [36.6, 140.3, 406], [36.6, 140.6, 928], [36.9, 137.0, 156], [36.9, 137.6, 548], [36.9, 137.9, 1988], [36.9, 138.2, 1798], [36.9, 138.5, 4489], [36.9, 138.8, 2913], [36.9, 139.1, 3069], [36.9, 139.4, 6148], [36.9, 139.7, 2262], [36.9, 140.0, 834], [36.9, 140.3, 1838], [36.9, 140.6, 2466], [37.2, 136.7, 414], [37.2, 137.0, 146], [37.2, 138.5, 884], [37.2, 138.8, 614], [37.2, 139.1, 2144], [37.2, 139.4, 2484], [37.2, 139.7, 2072], [37.2, 140.0, 4725], [37.2, 140.3, 961], [37.2, 140.6, 1854], [37.2, 140.9, 1597], [37.5, 137.3, 364], [37.5, 138.8, 60], [37.5, 139.1, 799], [37.5, 139.4, 2361], [37.5, 139.7, 787], [37.5, 140.0, 1738], [37.5, 140.3, 1094], [37.5, 140.6, 1477], [37.5, 140.9, 664], [37.8, 139.1, 13], [37.8, 139.4, 1292], [37.8, 139.7, 3406], [37.8, 140.0, 2360], [37.8, 140.3, 2049], [37.8, 140.6, 322], [37.8, 140.9, 83], [38.1, 139.4, 21], [38.1, 139.7, 1997], [38.1, 140.0, 727], [38.1, 140.3, 852], [38.1, 140.6, 1388], [38.1, 140.9, 5], [38.4, 139.7, 2369], [38.4, 140.0, 1865], [38.4, 140.3, 312], [38.4, 140.6, 2215], [38.4, 140.9, 113], [38.4, 141.2, 7], [38.4, 141.5, 46], [38.7, 139.7, 325], [38.7, 140.0, 574], [38.7, 140.3, 295], [38.7, 140.6, 2355], [38.7, 140.9, 329], [38.7, 141.2, 32], [38.7, 141.5, 110], [39.0, 140.0, 817], [39.0, 140.3, 1622], [39.0, 140.6, 2479], [39.0, 140.9, 1017], [39.0, 141.2, 1423], [39.0, 141.5, 1163], [39.3, 140.0, 526], [39.3, 140.3, 457], [39.3, 140.6, 550], [39.3, 140.9, 587], [39.3, 141.2, 418], [39.3, 141.5, 2444], [39.3, 141.8, 810], [39.6, 140.3, 143], [39.6, 140.6, 223], [39.6, 140.9, 1633], [39.6, 141.2, 344], [39.6, 141.5, 2516], [39.6, 141.8, 955], [39.9, 140.0, 14], [39.9, 140.3, 1423], [39.9, 140.6, 1800], [39.9, 140.9, 3901], [39.9, 141.2, 684], [39.9, 141.5, 2886], [39.9, 141.8, 2045], [40.2, 140.0, 7], [40.2, 140.3, 230], [40.2, 140.6, 302], [40.2, 140.9, 1490], [40.2, 141.2, 763], [40.2, 141.5, 1641], [40.2, 141.8, 8], [40.5, 140.0, 2175], [40.5, 140.3, 2040], [40.5, 140.6, 1053], [40.5, 140.9, 1312], [40.5, 141.2, 651], [40.5, 141.5, 85], [40.8, 140.3, 15], [40.8, 140.6, 571], [40.8, 140.9, 845], [40.8, 141.2, 200], [41.1, 140.6, 576], [41.4, 140.9, 809], [41.7, 140.3, 721], [42.0, 140.3, 646], [42.0, 140.6, 711], [42.3, 140.0, 812], [42.3, 142.7, 718], [42.3, 143.0, 1742], [42.3, 143.3, 432], [42.6, 140.0, 1275], [42.6, 140.3, 459], [42.6, 140.6, 447], [42.6, 140.9, 276], [42.6, 141.2, 1582], [42.6, 142.1, 385], [42.6, 142.4, 1248], [42.6, 142.7, 2427], [42.6, 143.0, 1249], [42.6, 143.3, 633], [42.9, 140.6, 2544], [42.9, 140.9, 1150], [42.9, 141.2, 3773], [42.9, 141.5, 371], [42.9, 141.8, 168], [42.9, 142.1, 1140], [42.9, 142.4, 1795], [42.9, 142.7, 4801], [42.9, 143.0, 308], [42.9, 143.3, 187], [42.9, 143.6, 330], [42.9, 143.9, 98], [43.2, 140.6, 271], [43.2, 140.9, 266], [43.2, 141.5, 29], [43.2, 141.8, 234], [43.2, 142.1, 1317], [43.2, 142.4, 1472], [43.2, 142.7, 1962], [43.2, 143.0, 1218], [43.2, 143.3, 814], [43.2, 143.6, 473], [43.2, 143.9, 917], [43.2, 144.2, 321], [43.2, 144.5, 48], [43.2, 144.8, 31], [43.2, 145.1, 79], [43.2, 145.4, 88], [43.5, 141.5, 1616], [43.5, 141.8, 614], [43.5, 142.1, 885], [43.5, 142.4, 1235], [43.5, 142.7, 2786], [43.5, 143.0, 3451], [43.5, 143.3, 4382], [43.5, 143.6, 1406], [43.5, 143.9, 1420], [43.5, 144.2, 1974], [43.5, 144.5, 551], [43.5, 144.8, 340], [43.5, 145.1, 97], [43.8, 141.5, 746], [43.8, 141.8, 392], [43.8, 142.1, 481], [43.8, 142.4, 400], [43.8, 142.7, 1747], [43.8, 143.0, 4081], [43.8, 143.3, 2599], [43.8, 143.6, 943], [43.8, 143.9, 207], [43.8, 144.2, 290], [43.8, 144.5, 289], [43.8, 144.8, 1079], [44.1, 141.8, 632], [44.1, 142.1, 1676], [44.1, 142.4, 564], [44.1, 142.7, 1368], [44.1, 143.0, 958], [44.1, 143.3, 1353], [44.1, 143.6, 513], [44.1, 143.9, 6], [44.1, 144.2, 11], [44.1, 145.1, 1810], [44.4, 141.8, 359], [44.4, 142.1, 1375], [44.4, 142.4, 400], [44.4, 142.7, 929], [44.4, 143.0, 294], [44.7, 141.8, 49], [44.7, 142.1, 611], [44.7, 142.4, 1502], [44.7, 142.7, 479], [45.0, 141.8, 21], [45.0, 142.1, 125], [45.0, 142.4, 1890], [45.3, 141.8, 26], [45.3, 142.1, 116]];
   var sigwxAreas = {"fbsp": {"name": "北海道", "fts": [{"ft": "3", "filename": "low_level_sigwx/fbsp.png"}, {"ft": "6", "filename": "low_level_sigwx_ft06/fbsp.png"}, {"ft": "9", "filename": "low_level_sigwx_ft09/fbsp.png"}]}, "fbsn": {"name": "東北", "fts": [{"ft": "3", "filename": "low_level_sigwx/fbsn.png"}, {"ft": "6", "filename": "low_level_sigwx_ft06/fbsn.png"}, {"ft": "9", "filename": "low_level_sigwx_ft09/fbsn.png"}]}, "fbtk": {"name": "東日本", "fts": [{"ft": "3", "filename": "low_level_sigwx/fbtk.png"}, {"ft": "6", "filename": "low_level_sigwx_ft06/fbtk.png"}, {"ft": "9", "filename": "low_level_sigwx_ft09/fbtk.png"}]}, "fbos": {"name": "西日本", "fts": [{"ft": "3", "filename": "low_level_sigwx/fbos.png"}, {"ft": "6", "filename": "low_level_sigwx_ft06/fbos.png"}, {"ft": "9", "filename": "low_level_sigwx_ft09/fbos.png"}]}, "fbkg": {"name": "奄美", "fts": [{"ft": "3", "filename": "low_level_sigwx/fbkg.png"}, {"ft": "6", "filename": "low_level_sigwx_ft06/fbkg.png"}, {"ft": "9", "filename": "low_level_sigwx_ft09/fbkg.png"}]}, "fbok": {"name": "沖縄", "fts": [{"ft": "3", "filename": "low_level_sigwx/fbok.png"}, {"ft": "6", "filename": "low_level_sigwx_ft06/fbok.png"}, {"ft": "9", "filename": "low_level_sigwx_ft09/fbok.png"}]}};
-  var layers = [{"label": "VMCマップ", "filename": "vmc_map.png", "axLeft": 0.0755, "axRight": 0.985, "axTop": 0.12104166666666671, "axBottom": 0.8789583333333333}, {"label": "標高マップ", "filename": "elevation_map.png", "axLeft": 0.07549999999999939, "axRight": 0.8713179687500002, "axTop": 0.1684091796874998, "axBottom": 0.8315908203125}, {"label": "色別標高図(地理院地図)", "filename": "gsi_relief_map.png", "axLeft": 0.0, "axRight": 1.0, "axTop": 0.0, "axBottom": 1.0, "mercator": {"zoom": 7, "x0": 27488.71111111111, "y0": 11657.601886795419, "x1": 29673.244444444445, "y1": 14132.630334066964}}, {"label": "下層悪天 FT03(標高図)", "filename": "gsi_relief_sigwx_ft03.png", "axLeft": 0.0, "axRight": 1.0, "axTop": 0.0, "axBottom": 1.0, "mercator": {"zoom": 7, "x0": 27488.71111111111, "y0": 11657.601886795419, "x1": 29673.244444444445, "y1": 14132.630334066964}, "caption": "初期時刻 2100 UTC 16 Sep 2026 / 有効時刻 0000 UTC 17 Sep 2026"}, {"label": "下層悪天 FT06(標高図)", "filename": "gsi_relief_sigwx_ft06.png", "axLeft": 0.0, "axRight": 1.0, "axTop": 0.0, "axBottom": 1.0, "mercator": {"zoom": 7, "x0": 27488.71111111111, "y0": 11657.601886795419, "x1": 29673.244444444445, "y1": 14132.630334066964}, "caption": "初期時刻 2100 UTC 16 Sep 2026 / 有効時刻 0300 UTC 17 Sep 2026"}];
+  var layers = [{"label": "VMCマップ", "filename": "vmc_map.png", "axLeft": 0.0755, "axRight": 0.985, "axTop": 0.12104166666666671, "axBottom": 0.8789583333333333}, {"label": "標高マップ", "filename": "elevation_map.png", "axLeft": 0.07549999999999939, "axRight": 0.8713179687500002, "axTop": 0.1684091796874998, "axBottom": 0.8315908203125}, {"label": "色別標高図(地理院地図)", "filename": "gsi_relief_map.png", "axLeft": 0.0, "axRight": 1.0, "axTop": 0.0, "axBottom": 1.0, "mercator": {"zoom": 7, "x0": 27488.71111111111, "y0": 11657.601886795419, "x1": 29673.244444444445, "y1": 14132.630334066964}}, {"label": "下層悪天 FT03(標高図)", "filename": "gsi_relief_sigwx_ft03.png", "axLeft": 0.0, "axRight": 1.0, "axTop": 0.0, "axBottom": 1.0, "mercator": {"zoom": 7, "x0": 27488.71111111111, "y0": 11657.601886795419, "x1": 29673.244444444445, "y1": 14132.630334066964}, "caption": "初期時刻 1800 UTC 17 Sep 2026 / 有効時刻 2100 UTC 17 Sep 2026"}, {"label": "下層悪天 FT06(標高図)", "filename": "gsi_relief_sigwx_ft06.png", "axLeft": 0.0, "axRight": 1.0, "axTop": 0.0, "axBottom": 1.0, "mercator": {"zoom": 7, "x0": 27488.71111111111, "y0": 11657.601886795419, "x1": 29673.244444444445, "y1": 14132.630334066964}, "caption": "初期時刻 1800 UTC 17 Sep 2026 / 有効時刻 0000 UTC 18 Sep 2026"}, {"label": "下層悪天 FT09(標高図)", "filename": "gsi_relief_sigwx_ft09.png", "axLeft": 0.0, "axRight": 1.0, "axTop": 0.0, "axBottom": 1.0, "mercator": {"zoom": 7, "x0": 27488.71111111111, "y0": 11657.601886795419, "x1": 29673.244444444445, "y1": 14132.630334066964}, "caption": "初期時刻 1800 UTC 17 Sep 2026 / 有効時刻 0300 UTC 18 Sep 2026"}];
   var currentLayer = 0;
   var lonMin = 122.0, lonMax = 146.0;
   var latMin = 24.0, latMax = 46.0;
